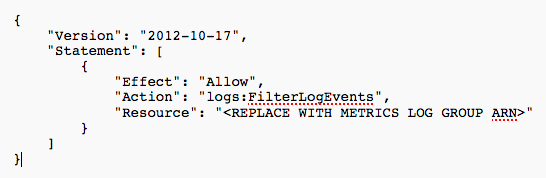
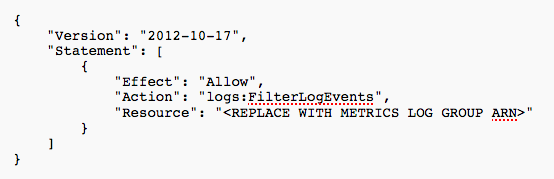
Fix Input JSON image.
This commit improves the resolution of the image.

diff --git a/README.md b/README.md
@@ -73,6 +73,9 @@ fields:
 
 ![Logo](Diagrams/InputJSON.png)
 
+See http://boto3.readthedocs.io/en/latest/reference/services/cloudwatch.html#CloudWatch.Client.put_metric_data
+for allowable values in the "unit" field, and more details regarding metrics.
+
 Wait the number of minutes specified in the "BatchingFrequencyInMinutes" parameter,
 or invoke the Metric Publisher Lambda Function manually. There is no input.
 
